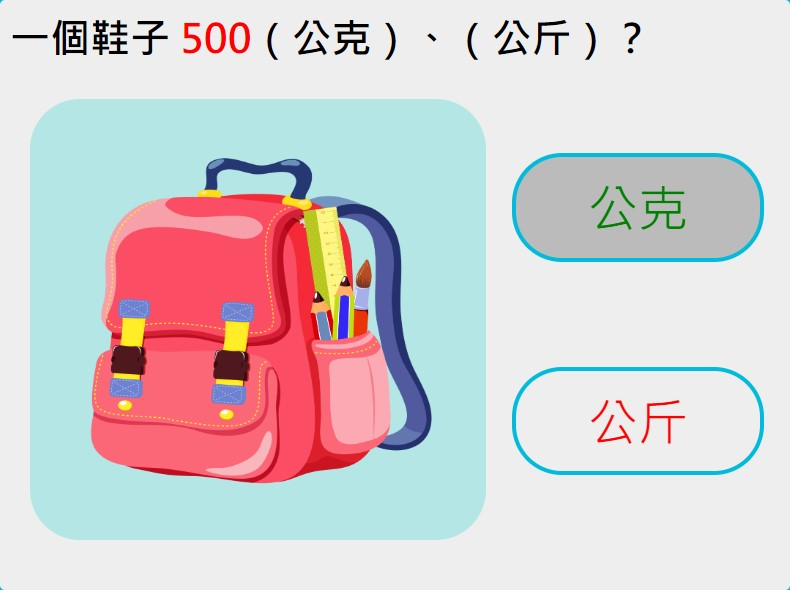
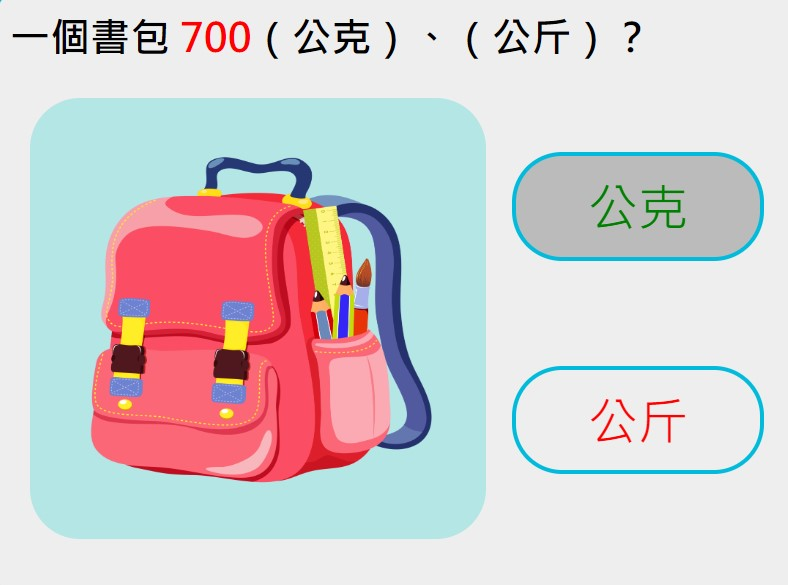
Change game explan

diff --git a/math/grade3/math/weight_sense/index.html b/math/grade3/math/weight_sense/index.html
@@ -20,12 +20,12 @@
         <div class="myCanvas">
             <div class="gameRule">
                 <h1 id="start">遊戲玩法：
-                    <span id="version">V0.1.1</span>
+                    <span id="version">V0.1.2</span>
                 </h1>
                 <div class="context">
                     <h1>根據題目選擇對應的答案</h1>
                     <h1>正確即可過關</h1>
-                    <h1>點擊紀錄下載可下載遊戲紀錄</h1>
+                    <h1>點擊💾可下載遊戲紀錄</h1>
                 </div>
                 <h1 id="end">準備好了嗎？點擊遊戲開始！</h1>
             </div>

diff --git a/game_template/index.html b/game_template/index.html
@@ -26,7 +26,7 @@
                 <div class="context">
                     <h1>根據題目選擇對應的答案</h1>
                     <h1>正確即可過關</h1>
-                    <h1>點擊紀錄下載可下載遊戲紀錄</h1>
+                    <h1>點擊💾可下載遊戲紀錄</h1>
                     <h1>錯誤三次可點擊提示</h1>
                 </div>
                 <h1 id="end">準備好了嗎？點擊遊戲開始！</h1>

diff --git a/math/grade3/math/recognize_angles/index.html b/math/grade3/math/recognize_angles/index.html
@@ -29,7 +29,7 @@
                 <div class="context">
                     <h1>根據題目選擇對應的答案</h1>
                     <h1>正確即可過關</h1>
-                    <h1>點擊紀錄下載可下載遊戲紀錄</h1>
+                    <h1>點擊💾可下載遊戲紀錄</h1>
                     <h1>點擊提示可獲得提示</h1>
                 </div>
                 <h1 id="end">準備好了嗎？點擊遊戲開始！</h1>

diff --git a/math/grade3/math/weight_sense/README.md b/math/grade3/math/weight_sense/README.md
@@ -21,7 +21,7 @@
 # 遊戲介紹
 
 ## Grad3-4 重量的量感與估測（weight_sense）
-[![weight_sense](https://img.shields.io/badge/weight_sense-v0.1.1-blue.svg)](./weight_sense)
+[![weight_sense](https://img.shields.io/badge/weight_sense-v0.1.2-blue.svg)](./weight_sense)
 
 - 遊戲路徑：進入[遊戲網站](https://PTWA-NPO.github.io/)後，點擊左方列表中的**三年級**，選擇**重量的量感與估測**
 
@@ -34,15 +34,15 @@
 
 ### 關卡說明
 - 第一關：一個書包 700（公克）、（公斤）？
-- 第二關：一個鞋子 500（公克）、（公斤）？
-- 第三關：一個腳踏車 5（公克）、（公斤）？
+- 第二關：一雙鞋子 500（公克）、（公斤）？
+- 第三關：一輛腳踏車 5（公克）、（公斤）？
 - 第四關：一個水壺 300（公克）、（公斤）？
 - 第五關：一個汽車輪胎 10（公克）、（公斤）？
   
 ### 遊戲玩法
 - 根據題目選擇對應的答案
 - 正確即可過關
-- 點擊紀錄下載可下載遊戲紀錄
+- 點擊💾可下載遊戲紀錄
  
 ### Image Source
 - [backpack](https://www.cleanpng.com/png-school-backpack-png-clipart-22697/)

diff --git a/game_template/README.md b/game_template/README.md
@@ -1,4 +1,4 @@
-#　認識直角鈍角銳角（recognize_angles）
+# 認識直角鈍角銳角（recognize_angles）
 
 ![educational_games](https://img.shields.io/github/v/tag/PTWA-NPO/PTWA-NPO.github.io)
 
@@ -36,10 +36,10 @@
 - 第一關：認識直角鈍角銳角
   
 ### 遊戲玩法
-- 根據題目選擇對應的直角、鈍角、銳角答案
+- 根據題目選擇對應的答案
 - 正確即可過關
-- 可拖拉直角圖形比對答案
- 
+- 點擊💾可下載遊戲紀錄
+- 錯誤三次可點擊提示
 ### Image Source
 - []()
 

diff --git a/math/grade3/math/recognize_angles/README.md b/math/grade3/math/recognize_angles/README.md
@@ -38,7 +38,7 @@
 ### 遊戲玩法
 - 根據題目選擇對應的直角、鈍角、銳角答案
 - 正確即可過關
-- 點擊紀錄下載可下載遊戲紀錄
+- 點擊💾可下載遊戲紀錄
  
 ### Image Source
 - []()
